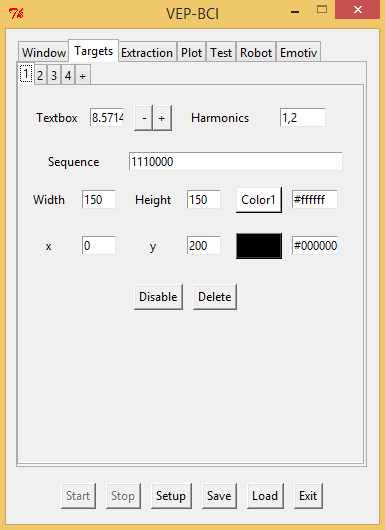
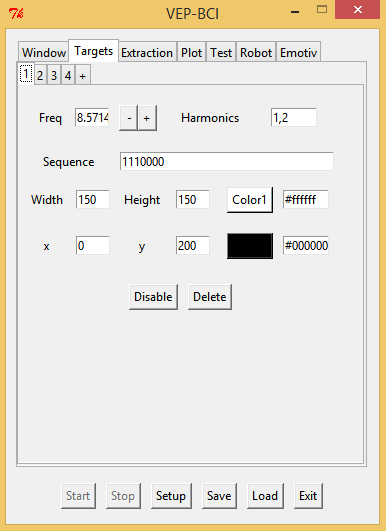
Fix target freq textbox label.

diff --git a/src/gui/widgets/Textboxes.py b/src/gui/widgets/Textboxes.py
@@ -69,7 +69,7 @@ class LabelTextbox(Textbox):
         Textbox.__init__(self, parent, name, row, column+label_columnspan, **kwargs)
         self.allow_negative = kwargs.get("allow_negative", False)
         self.allow_zero = kwargs.get("allow_zero", False)
-        label = Tkinter.Label(parent, text=self.name)
+        label = Tkinter.Label(parent, text=kwargs.get("label", self.name))
         label.grid(row=self.row, column=column, padx=self.padx, pady=self.pady, columnspan=label_columnspan)
 
     def validationFunction(self):
@@ -101,7 +101,7 @@ class PlusMinusTextboxFrame(Frame.Frame):
         increase_command = lambda: increase() if self.widgets_dict[c.TEXTBOX].validate() else None
         decrease_command = lambda: decrease() if self.widgets_dict[c.TEXTBOX].validate() else None
         self.addChildWidgets((
-            LabelTextbox(self.widget, c.TEXTBOX, 0, 0, command=float, auto_update=kwargs["command"], default_value=10.0),
+            LabelTextbox(self.widget, c.TEXTBOX, 0, 0, command=float, auto_update=kwargs["command"], default_value=10.0, label=name),
             PlusMinusFrame.PlusMinusFrame(self.widget, 0, 2, increase_command, decrease_command)
         ))
 
